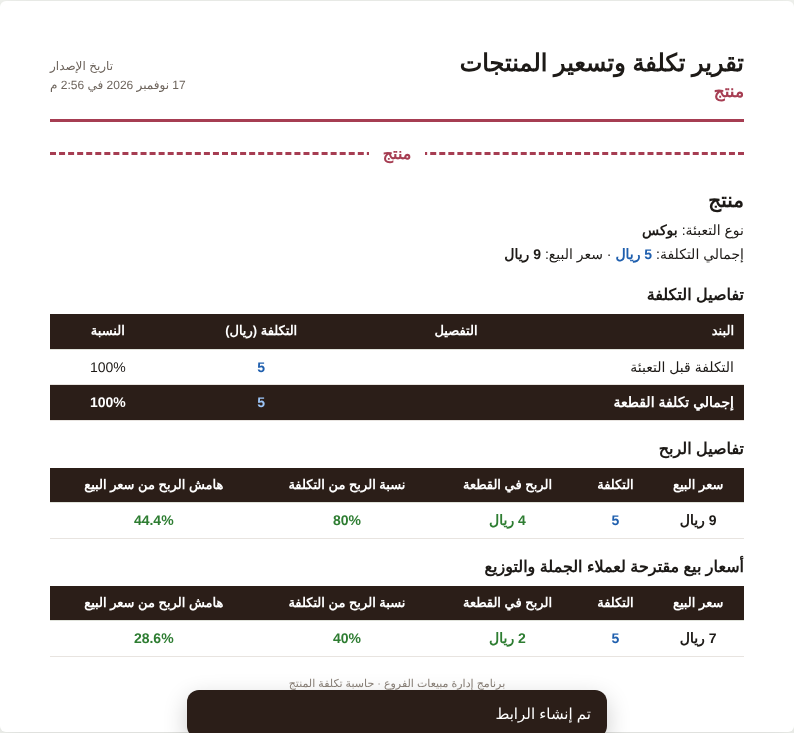
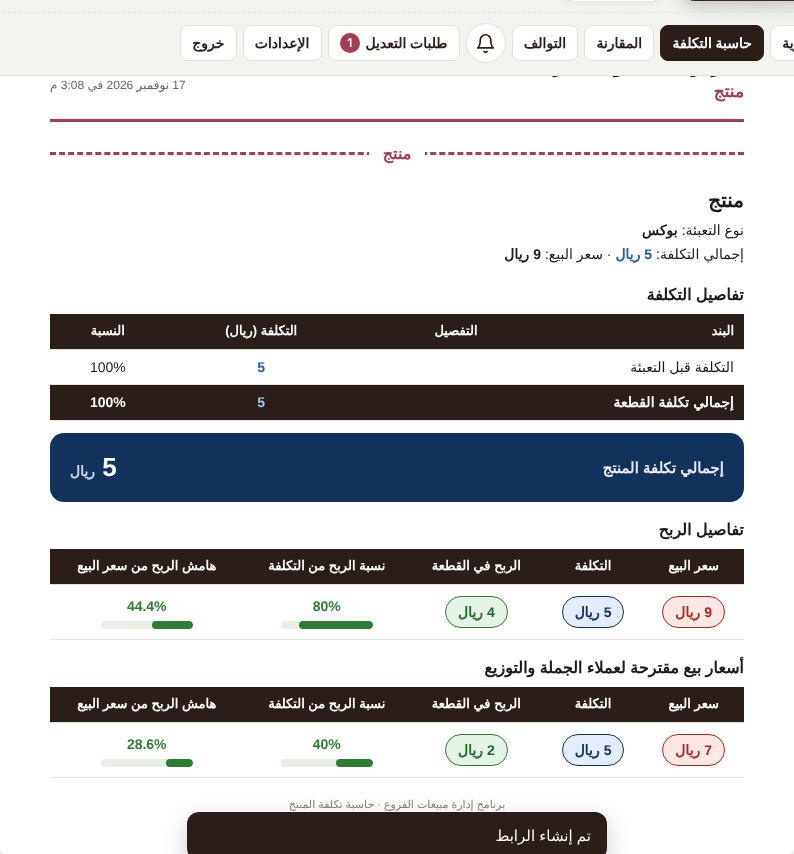
Add files via upload

diff --git a/index.html b/index.html
@@ -655,6 +655,19 @@
   .pdf .g { color: #2e7d32; font-weight: 700; }
   .pdf .bl { color: #1f5fae; font-weight: 600; }
   .pdf .bl-f { color: #9cc4f5; }
+  .pdf .tc-box { display: flex; align-items: center; justify-content: space-between; gap: 12px; margin: 12px 0 4px; padding: 14px 20px; border-radius: 14px; background: #12325e; color: #fff; }
+  .pdf .tc-box span { font-size: 15px; font-weight: 600; opacity: .9; }
+  .pdf .tc-box b { font-family: 'Readex Pro', sans-serif; font-size: 26px; }
+  .pdf .tc-box small { font-size: 14px; opacity: .8; }
+  .pdf .ptbl td { padding-top: 10px; padding-bottom: 10px; vertical-align: middle; }
+  .pdf .pill-red, .pdf .pill-blue, .pdf .pill-green { display: inline-block; border-radius: 999px; padding: 4px 12px; font-weight: 800; font-size: 14px; white-space: nowrap; }
+  .pdf .pill-red { background: #fde8e6; color: #b3261e; border: 1.5px solid #b3261e; }
+  .pdf .pill-blue { background: #e3ecf8; color: #12325e; border: 1.5px solid #12325e; }
+  .pdf .pill-green { background: #e5f3e6; color: #1b6e2a; border: 1.5px solid #2e7d32; }
+  .pdf .pbar { display: flex; flex-direction: column; align-items: center; gap: 4px; }
+  .pdf .pbar b { font-size: 14px; }
+  .pdf .pbar i { display: block; width: 92px; height: 8px; border-radius: 99px; background: #e7efe7; overflow: hidden; direction: rtl; }
+  .pdf .pbar em { display: block; height: 100%; background: #2e7d32; border-radius: 99px; margin-left: auto; }
   .pdf tr.hl td { background: #f6e3e7; font-weight: 700; color: #7a2236; }
   .pdf .pr-head { display: flex; gap: 16px; align-items: center; margin: 4px 0 10px; }
   .pdf .pr-head img { width: 130px; height: 130px; object-fit: cover; border-radius: 12px; border: 1px solid #e8e4e0; }
@@ -871,7 +884,7 @@
       <section id="merges"></section>
       <details class="box" id="historyBox"><summary>آخر قرارات التعديل</summary><div id="history"></div></details>
       <section id="charts" class="charts"></section>
-      <p class="app-ver">إصدار الواجهة: 2026-11-17 و</p>
+      <p class="app-ver">إصدار الواجهة: 2026-11-17 ز</p>
     </div>
 
     <section id="detail" hidden></section>
@@ -2622,11 +2635,16 @@ function prodReportHtml(list) {
         <tr><td>التكلفة قبل التعبئة</td><td></td><td class="n">${costB(k.base)}</td><td class="n">${k.total ? fmtPct(k.base / k.total * 100) : '—'}</td></tr>
         ${c.ings.map(r => `<tr><td>${esc(ingName(r))}</td><td>${ingQtyTxt(r)}</td><td class="n">${costB(ingRowCost(r))}</td><td class="n">${k.total ? fmtPct(ingRowCost(r) / k.total * 100) : '—'}</td></tr>`).join('')}
         ${c.extras.map(e => `<tr><td>${esc(e.name)}</td><td>تكلفة أخرى</td><td class="n">${costB(numIn(e.amount))}</td><td class="n">${k.total ? fmtPct(numIn(e.amount) / k.total * 100) : '—'}</td></tr>`).join('')}
-      </tbody><tfoot><tr><td colspan="2">إجمالي تكلفة القطعة</td><td class="n"><span class="bl-f">${m2(k.total)}</span></td><td class="n">100%</td></tr></tfoot></table>`;
-    const prow = v => { const st = priceStats(k.total, v); return `<tr><td class="n"><b>${m2(v)} ريال</b></td><td class="n">${costB(k.total)}</td><td class="n"><b style="color:${st.profit >= 0 ? '#2e7d32' : '#b3261e'}">${m2(st.profit)} ريال</b></td><td class="n">${pctG(st.onCost)}</td><td class="n">${pctG(st.onPrice)}</td></tr>`; };
+      </tbody><tfoot><tr><td colspan="2">إجمالي تكلفة القطعة</td><td class="n"><span class="bl-f">${m2(k.total)}</span></td><td class="n">100%</td></tr></tfoot></table>
+      <div class="tc-box pdf-block"><span>إجمالي تكلفة المنتج</span><b>${m2(k.total)} <small>ريال</small></b></div>`;
+    const all = [main, ...ws].filter(Boolean), maxOn = Math.max(100, ...all.map(v => priceStats(k.total, v).onCost));
+    const bar = (v, max) => `<div class="pbar"><b class="g">${fmtPct(v)}</b><i><em style="width:${Math.max(2, Math.min(100, v / max * 100))}%"></em></i></div>`;
+    const prow = v => { const st = priceStats(k.total, v); return `<tr><td class="n"><span class="pill-red">${m2(v)} ريال</span></td><td class="n"><span class="pill-blue">${m2(k.total)} ريال</span></td>
+      <td class="n"><span class="pill-green">${m2(st.profit)} ريال</span></td><td class="n">${bar(st.onCost, maxOn)}</td><td class="n">${bar(st.onPrice, 100)}</td></tr>`; };
     const phead = '<thead><tr><th class="n">سعر البيع</th><th class="n">التكلفة</th><th class="n">الربح في القطعة</th><th class="n">نسبة الربح من التكلفة</th><th class="n">هامش الربح من سعر البيع</th></tr></thead>';
-    if (main) h += `<h2 class="pdf-block">تفاصيل الربح</h2><table>${phead}<tbody>${prow(main)}</tbody></table>`;
-    if (ws.length) h += `<h2 class="pdf-block">أسعار بيع مقترحة لعملاء الجملة والتوزيع</h2><table>${phead}<tbody>${ws.map(prow).join('')}</tbody></table>`;
+    const ptbl = rows => `<table class="ptbl">${phead}<tbody>${rows}</tbody></table>`;
+    if (main) h += `<h2 class="pdf-block">تفاصيل الربح</h2>${ptbl(prow(main))}`;
+    if (ws.length) h += `<h2 class="pdf-block">أسعار بيع مقترحة لعملاء الجملة والتوزيع</h2>${ptbl(ws.map(prow).join(''))}`;
   }
   return h + '<p class="foot pdf-block">برنامج إدارة مبيعات الفروع · حاسبة تكلفة المنتج</p>';
 }
